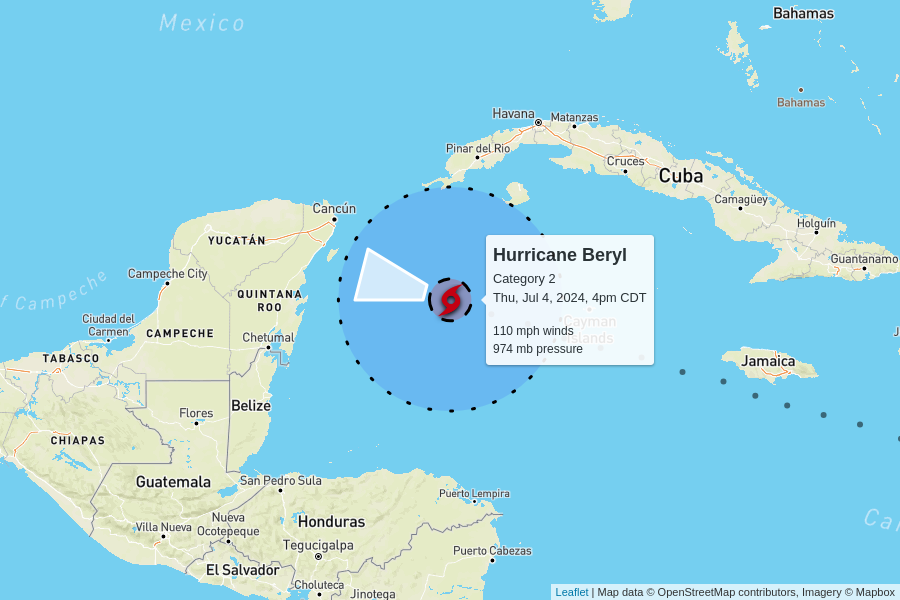
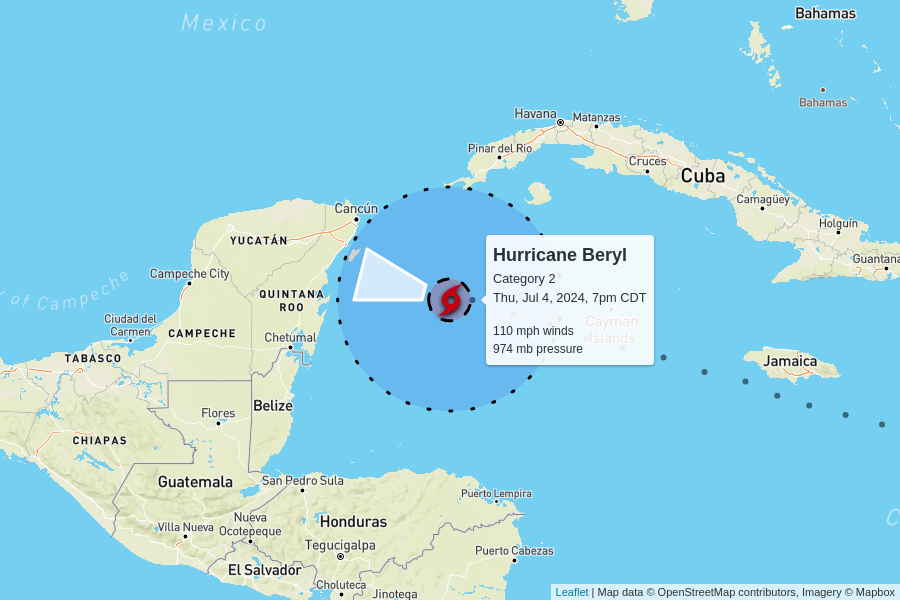
automatic update

diff --git a/docs/index.html b/docs/index.html
@@ -102,7 +102,7 @@
         <td colspan="6" class="storm category-2" >
           <h2>
             Hurricane Beryl - Category 2
-            <p class="updated">last updated <span data-time>2024-07-04T21:00:00.000Z</span></p>
+            <p class="updated">last updated <span data-time>2024-07-05T00:00:00.000Z</span></p>
           </h2>
         </td>
       </tr>
